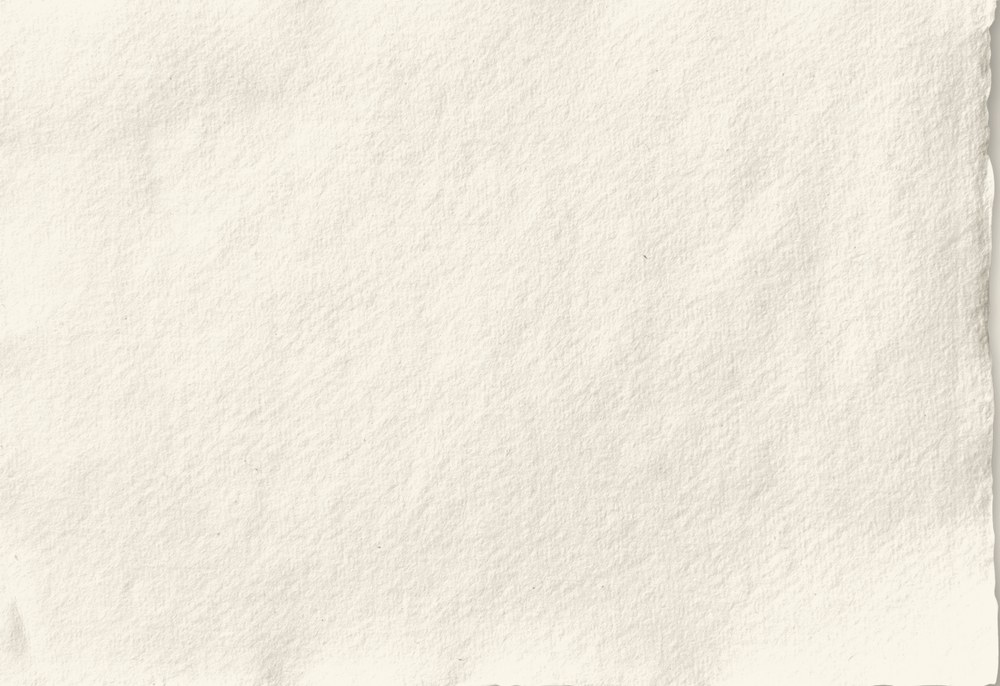
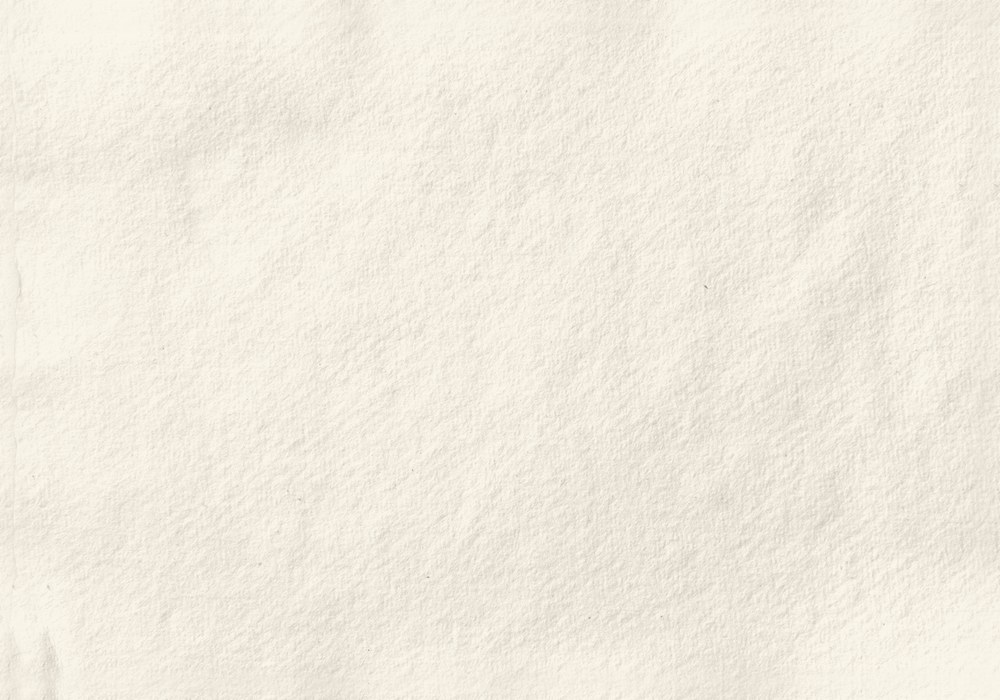
Substrate v2 paper system v2: clean-edge fill asset + chip collage layer
Asset: paper-sheet-fill.jpg rebuilt from source interior (right-edge dark zone excluded via contiguous clean-run scan, edges feathered 44px toward interior). Old asset right 40px mean 216 sd 21.7 vs interior 232 - cover-fit on wide cards exposed it as a rough right edge. New asset uniform on all 4 edges (mean 232-236, sd 4.9-6.3).

CSS: inner chips (bg-white/[0.02], 23 surfaces) join the paper system at opacity 0.22 - second sheet weight, no shadow, tone differentiation preserved = layered paper collage. Adopt cards untouched (already full-strength), buttons/badges untouched. Philosophy section-cards inherit the clean asset automatically.

Changed region(s): [[0.93, 0.0, 1.0, 1.0]]

diff --git a/substrate-v2/index.html b/substrate-v2/index.html
@@ -2116,6 +2116,17 @@
             background: url('../assets/images/paper-sheet-fill.jpg') center / cover no-repeat;
             opacity: 0.45;
         }
+        /* ── paper collage layer 2: inner chips get their own lighter texture wash,
+   same paper, lower opacity + no shadow so they read as a second sheet weight
+   sitting inside the main card sheet (collage layering, tone still differentiates). ── */
+        .bg-white\/\[0\.02\]:not(.adopt-card) {
+            position: relative; isolation: isolate; overflow: hidden;
+        }
+        .bg-white\/\[0\.02\]:not(.adopt-card)::after {
+            content: ''; position: absolute; inset: 0; z-index: -1; pointer-events: none;
+            background: url('../assets/images/paper-sheet-fill.jpg') center / cover no-repeat;
+            opacity: 0.22;
+        }
     </style>
 
 </body>
